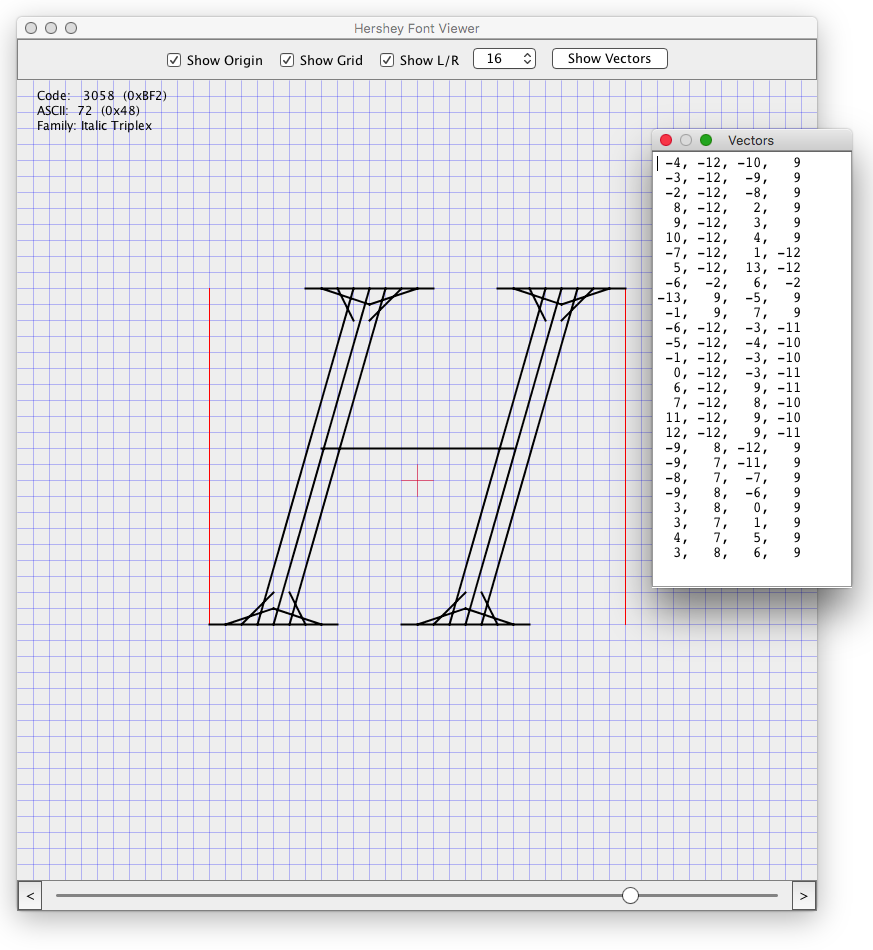
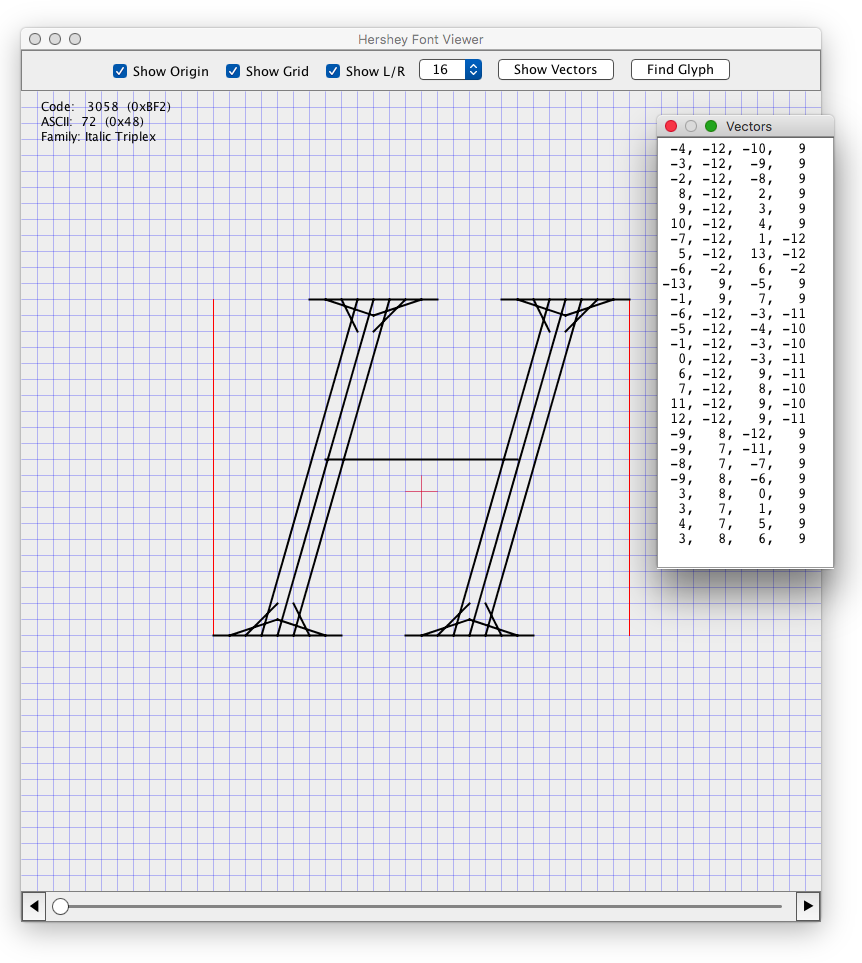
Add "Find Glyph" popup menu

Changed region(s): [[0.0, 0.0, 0.9954, 0.9768]]

diff --git a/src/HersheyView.java b/src/HersheyView.java
@@ -1,5 +1,7 @@
 import javax.swing.*;
 import java.awt.*;
+import java.awt.event.ActionEvent;
+import java.awt.event.ActionListener;
 import java.awt.geom.*;
 import java.io.*;
 import java.text.DecimalFormat;
@@ -13,11 +15,14 @@ class HersheyView extends JPanel {
   private List<HersheyGlyph>    glyphs = new ArrayList<>();
   private Map<Integer,Integer>  ascii = new HashMap<>();
   private Map<Integer,String>   family = new HashMap<>();
+  private Map<String,List<Integer>>  families = new TreeMap<>();
+  private Map<Integer,Integer>  hIndex = new HashMap<>();
   private int                   index;
   private boolean               showGrid, showLR, showOrigin;
   private double                zoom = 8;
 
   private HersheyView () throws IOException {
+    setPreferredSize(new Dimension(800, 800));
     // Build glyphs from James Hurt's ASCII format
     String font = getResource("hershey.txt");
     StringTokenizer tok = new StringTokenizer(font, "\n\r");
@@ -40,6 +45,7 @@ class HersheyView extends JPanel {
       }
     }
     // Step 2: Parse Hurt format and convert to Path2D.Double object
+    int hdx = 0;
     for (String line : lines) {
       Path2D.Double path = new Path2D.Double();
       int code = Integer.parseInt(line.substring(0, 5).trim());
@@ -64,6 +70,7 @@ class HersheyView extends JPanel {
           }
         }
       }
+      hIndex.put(code, hdx++);
       glyphs.add(new HersheyGlyph(code, path, left, right));
     }
     // Build Hershey code to ASCII code lookup tables from ascii.txt file
@@ -74,12 +81,14 @@ class HersheyView extends JPanel {
       String[] parts = line.split(":");
       int code = 32;
       if (parts.length == 2) {
+        List<Integer> hCodes = new ArrayList<>();
         String[] codes = parts[1].split(",");
         for (String tmp : codes) {
           String[] seq = tmp.split("-");
           if (seq.length == 1) {
             int val = Integer.parseInt(seq[0]);
             ascii.put(val, code++);
+            hCodes.add(val);
             family.put(val, parts[0]);
           } else if (seq.length == 2) {
             int start = Integer.parseInt(seq[0]);
@@ -87,9 +96,11 @@ class HersheyView extends JPanel {
             for (int ii = start; ii <= end; ii++) {
               ascii.put(ii, code++);
               family.put(ii, parts[0]);
+              hCodes.add(ii);
             }
           }
         }
+        families.put(parts[0], hCodes);
       }
     }
   }
@@ -160,6 +171,9 @@ class HersheyView extends JPanel {
     }
   }
 
+  private Map<String,List<Integer>> getFamiles () {
+    return families;
+  }
   private int glyphCount () {
     return glyphs.size();
   }
@@ -180,6 +194,11 @@ class HersheyView extends JPanel {
 
   private void setGlyph (int index) {
     this.index = index;
+    repaint();
+  }
+
+  private void selectHersheyCode (int code) {
+    this.index= hIndex.get(code);
     repaint();
   }
 
@@ -250,7 +269,6 @@ class HersheyView extends JPanel {
     frame.setLayout(new BorderLayout());
     try {
       HersheyView hershey = new HersheyView();
-      hershey.setPreferredSize(new Dimension(800, 800));
       frame.add(hershey, BorderLayout.CENTER);
       JSlider slider = new JSlider(JSlider.HORIZONTAL, 0, hershey.glyphCount() - 1, 0);
       slider.addChangeListener(ev -> hershey.setGlyph(slider.getValue()));
@@ -258,15 +276,15 @@ class HersheyView extends JPanel {
       bottomPane.setBorder(BorderFactory.createLineBorder(Color.gray, 1));
       bottomPane.add(slider, BorderLayout.CENTER);
       // Define Left button
-      JButton undo = new JButton("<");
-      undo.addActionListener(e -> hershey.prevGlyph());
-      undo.setPreferredSize(new Dimension(24, 12));
-      bottomPane.add(undo, BorderLayout.WEST);
+      JButton left = new JButton("\u25C0");
+      left.addActionListener(e -> hershey.prevGlyph());
+      left.setPreferredSize(new Dimension(24, 12));
+      bottomPane.add(left, BorderLayout.WEST);
       // Define Right button
-      JButton redo = new JButton(">");
-      redo.addActionListener(e -> hershey.nextGlyph());
-      redo.setPreferredSize(new Dimension(24, 12));
-      bottomPane.add(redo, BorderLayout.EAST);
+      JButton right = new JButton("\u25B6");
+      right.addActionListener(e -> hershey.nextGlyph());
+      right.setPreferredSize(new Dimension(24, 12));
+      bottomPane.add(right, BorderLayout.EAST);
       // Add Control panel
       JPanel controls = new JPanel();
       controls.setBorder(BorderFactory.createLineBorder(Color.gray, 1));
@@ -311,6 +329,35 @@ class HersheyView extends JPanel {
         dialog.setLocation(dim1.x + dim2.x, dim1.y + dim2.y);
         dialog.setVisible(true);
       });
+      // Add "Find Glyph" Menu Button
+      JButton find = new JButton("Find Glyph");
+      JPopupMenu families = new JPopupMenu("");
+      Map<String,List<Integer>> fMap = hershey.getFamiles();
+      for (String familiy : fMap.keySet()) {
+        List<Integer> hCodes = fMap.get(familiy);
+        JMenu fMenu = new JMenu(familiy);
+        families.add(fMenu);
+        JPopupMenu chars = fMenu.getPopupMenu();
+        chars.setLayout(new GridLayout(12, 16));
+        for (int ii = 32; ii < 128; ii++) {
+          int idx = hCodes.get(ii - 32);
+          JMenuItem mItem = new JMenuItem(Character.toString((char) ii));
+          mItem.addActionListener(ev -> {
+            hershey.selectHersheyCode(idx);
+          });
+          Dimension dim = mItem.getPreferredSize();
+          mItem.setPreferredSize(new Dimension(dim.width - (dim.width / 4), dim.height));
+          chars.add(mItem);
+        }
+      }
+      find.addActionListener( new ActionListener() {
+        public void actionPerformed(ActionEvent ae) {
+          families.show(find, find.getWidth()/2, find.getHeight()/2);
+        }
+      });
+      controls.add(find);
+
+
       frame.add(controls, BorderLayout.NORTH);
       frame.add(bottomPane, BorderLayout.SOUTH);
       frame.setDefaultCloseOperation(WindowConstants.EXIT_ON_CLOSE);

diff --git a/README.md b/README.md
@@ -11,7 +11,8 @@ I originally created HersheyView as a tool to support the developoment of a set 
  - Click the "**`Show L/R`**" checkbox to display red, vertical lines that show left and right boundaries of the glyph.
  - Use the dropdown to select a zoom factor of 8 to 64 times.
  - Click the "**`Show Vectors`**" button to display a list of all the vectors (x1, y1, x2, y2) used to draw the glyph.
- - Use the slider and the left/right arrows under the view area to select a glyph.
+ - Click the "**`Find Glyph`**" button to get a popup menu where you can select a specific glyph from the different font families available.
+ - Use the slider and the left/right arrows under the view area to select a glyph.  While the slider is selected, the left/right arrow keys will also control it.
 
 Each glyph is assigned a code that's displayed in the upper left corner of the view area.  This code is unique to Dr. Hershey's fonts and does not correspond to standard ASCII, or any other character coding scheme.  However, the characters needed to build a set of ASCII characters is available in the set of glyphs and, using a set of lookup tables, the code will display the ASCII code for a glyph (it it exists) as well as the name of font family, which includes:
 
